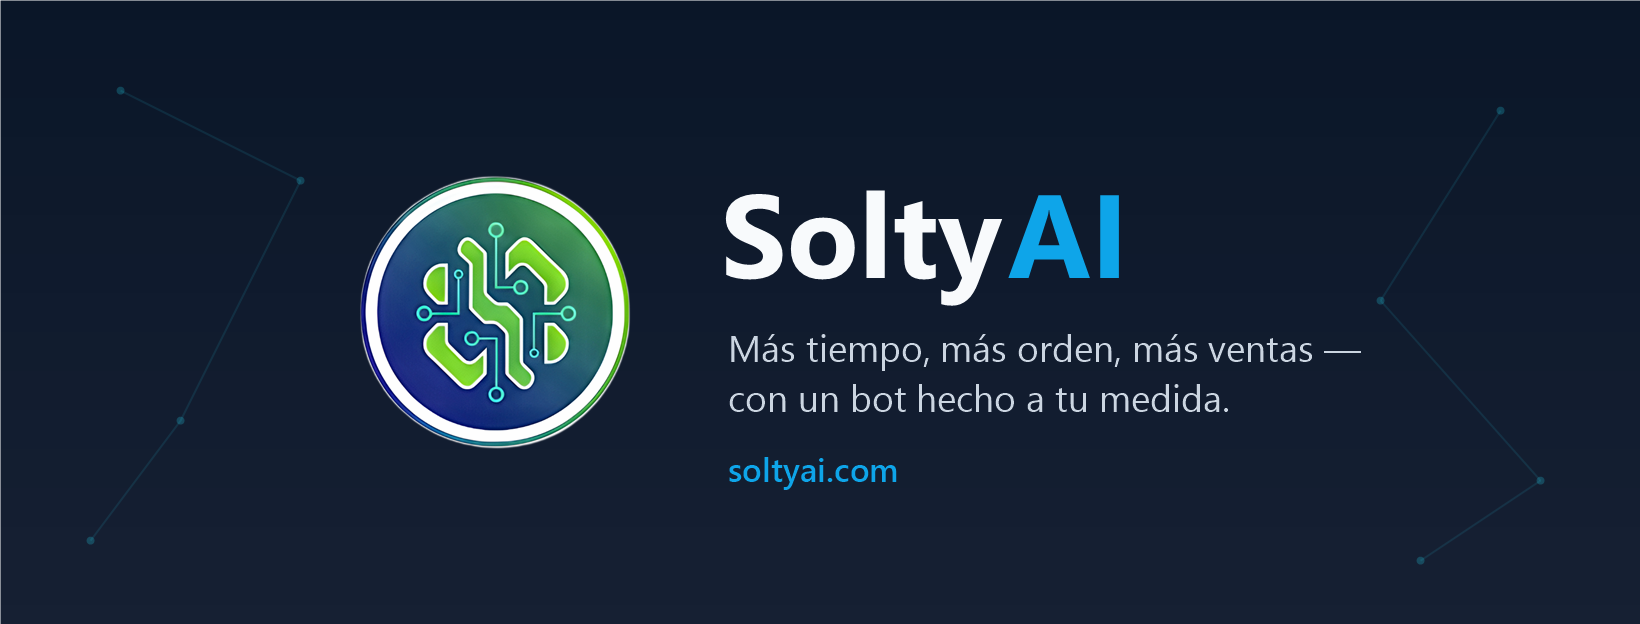
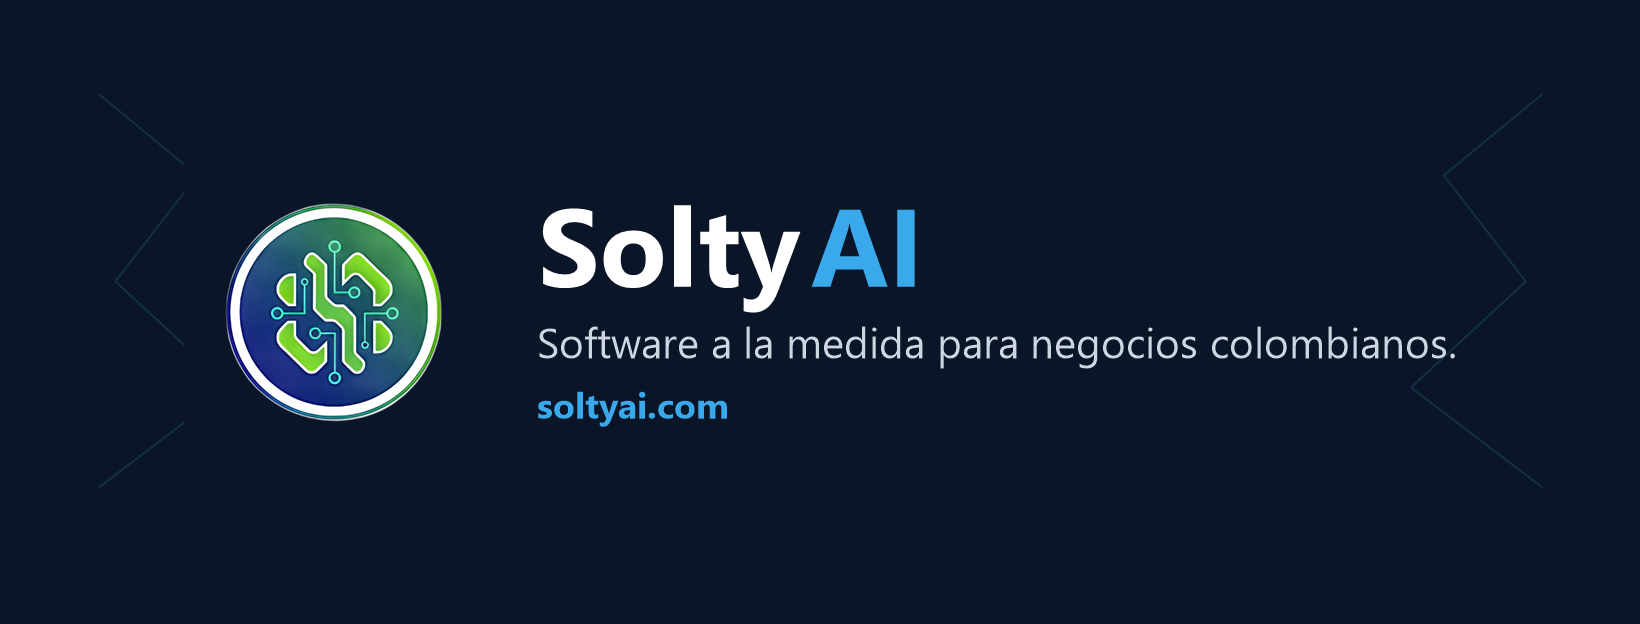
GBP creado y verificado (15-sep); portadas regeneradas con el titular del servicio
- redes/google-business-profile.md: nota de lo que pasó de verdad (verificación
  instantánea, categorías reales del selector, portada nueva, reseña de Bucaradomi),
  fila 9 del §12 y post 2 sin el «piso $3.000.000» (L3 es cotización desde el 9-sep).
- redes/generar-portadas.ps1 (nuevo): regenera GBP/YouTube/Facebook/LinkedIn sin
  dependencias. Las tres portadas viejas decían «chatbots» y contradecían el canal.
- redes/solty-gbp-portada.png (nueva) + yt/fb/linkedin regeneradas.

Changed region(s): [[0.1244, 0.274, 0.9018, 0.7308], [0.4354, 0.7308, 0.5598, 0.7917]]

diff --git a/redes/google-business-profile.md b/redes/google-business-profile.md
@@ -20,6 +20,15 @@
 > de arriba. El perfil de WhatsApp Business que va en ese mismo número está escrito completo en
 > [`whatsapp-business-perfil.md`](whatsapp-business-perfil.md).
 >
+> ✅ **Creado y verificado el 2026-09-15.** Con `carlos@soltyai.com`. La verificación fue **instantánea**: Google
+> no pidió video ni documento, porque el dominio del Workspace coincide con el sitio web del perfil.
+> El guion del §11 queda como respaldo por si alguna vez Google pide re-verificar. Lo que difiere de lo
+> escrito: las categorías reales del selector fueron `Compañía de software` (principal), `Diseñador
+> web`, `Consultor informático` y `Asistencia y servicios informáticos`; la portada NO es el banner
+> de YouTube (decía «chatbots») sino `solty-gbp-portada.png`, generada con `generar-portadas.ps1`
+> con el titular del servicio; `/producto/domicilios-ops` ya responde 200, así que el post 1 salió con
+> su enlace. Enlace de reseñas: `https://g.page/r/Cfnm6edFflNkEBM/review`. Bucaradomi ya dejó la suya.
+>
 > ### El mensaje líder de este canal es el servicio a la medida
 >
 > `data/canon.json → mensajeLiderPorCanal` pone `gbp` en la lista de `servicio` desde el 17-ago.
@@ -384,7 +393,7 @@ Somos un estudio de desarrollo en Bucaramanga y hacemos software a la medida par
 
 No arrancamos cotizando. Arrancamos con un diagnóstico de automatización: una sesión de 60 a 90 minutos sobre el proceso real y, después, un documento con el mapa de los pasos manuales, las oportunidades ordenadas por impacto y la estimación de alcance y precio del proyecto que resolvería las dos primeras. Cuesta $600.000 más IVA y se descuenta completo si contratas dentro de los 30 días siguientes.
 
-Si de ahí sale un proyecto, el piso es $3.000.000 más IVA, se paga mitad al inicio y mitad contra entrega, y antes de entregarlo te proponemos el plan de soporte y evolución.
+Si de ahí sale un proyecto, no hay un «desde»: tú pones el presupuesto y el alcance se acomoda. Se paga mitad al inicio y mitad contra entrega, y antes de entregarlo te proponemos el plan de soporte y evolución.
 
 Trabajamos un proyecto a la vez, y es a propósito.
 ```
@@ -488,7 +497,7 @@ De apoyo, si el revisor pide más: el **RUT** (NIT 902.081.265-3).
 | 6 | **Formas de pago que se declaran.** | Transferencia y QR. Tarjeta no, hasta que Wompi pase a producción. |
 | 7 | **¿Se agrega `Santander, Colombia` como quinta zona?** | Es gratis y amplía el alcance, pero diluye la señal local del área metropolitana. Decisión suya. |
 | 8 | **Fecha de apertura publicada: julio de 2026.** | Publicarla. Es verificable contra la matrícula y le dice al que llega que la empresa es nueva, que es cierto. |
-| 9 | **Logo y portada.** | Logo: `redes/solty-fb-perfil.png` (1024x1024, cuadrado, por encima del mínimo de Google). Portada: `redes/solty-yt-banner.png` (2048x1152, que es 16:9 exacto, el formato que pide Google). ⚠ El banner de LinkedIn (1128x191) **no sirve**: la proporción no es la de Google y quedaría recortado. Conviene mirar el de YouTube antes de subirlo, porque está diseñado con el contenido centrado. |
+| 9 | **Logo y portada.** | Logo: `redes/solty-fb-perfil.png` (1024x1024). Portada: `redes/solty-gbp-portada.png` (2048x1152, 16:9). ⚠ Hasta el 15-sep esta fila mandaba el banner de YouTube, que decía «Chatbots que atienden, venden y agendan por ti»: contradecía el mensaje líder del canal. Las cuatro portadas (GBP, YouTube, Facebook, LinkedIn) se regeneraron ese día con `generar-portadas.ps1` y el titular «Software a la medida para negocios colombianos». |
 
 ---
 
